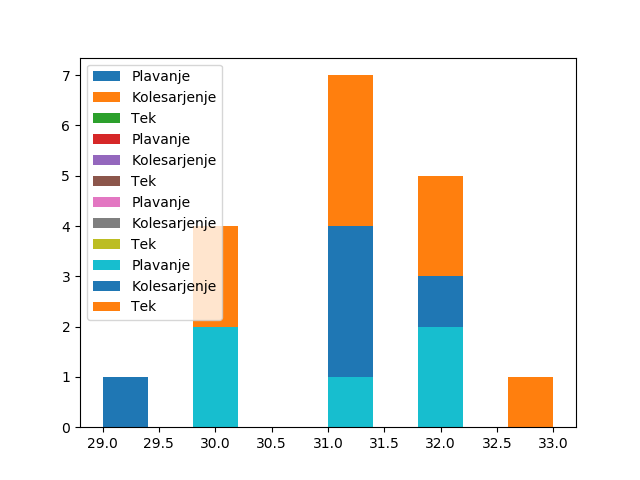
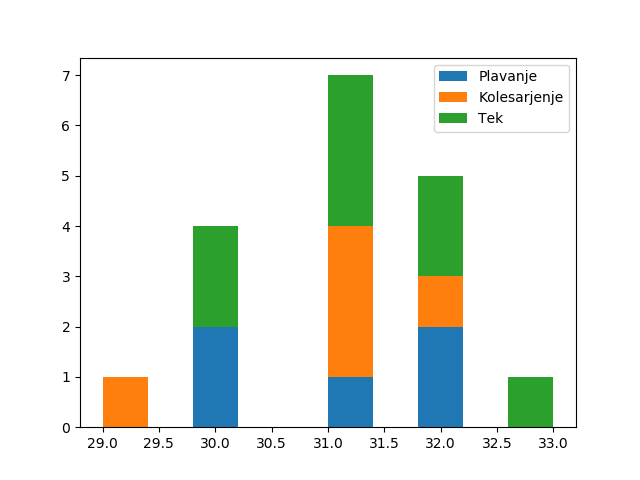
NOve spremembe, deluje iskanje po mesecih.

diff --git a/views/statistika.html b/views/statistika.html
@@ -37,7 +37,7 @@
 
     % else:
     <table border="1", align="center">
-      % for element in najdaljsi[0]:
+      % for element in najdaljsi[0][:-3]:
       <td>
         {{element}}
       </td>
@@ -55,7 +55,7 @@
 
     % else:
     <table border="1", align="center">
-    % for element in najdaljsi[1]:
+    % for element in najdaljsi[1][:-3]:
       <td>
         {{element}}
       </td>
@@ -74,7 +74,7 @@
 
     % else:
     <table border="1", align="center">
-    % for element in najdaljsi[2]:
+    % for element in najdaljsi[2][:-3]:
       <td>
         {{element}}
       </td>

diff --git a/views/zgodovina-datum.html b/views/zgodovina-datum.html
@@ -1,0 +1,25 @@
+% rebase('base.html')
+
+    Zgodovina aktivnosti:
+
+    <br>
+    
+<table border="1", align="center">
+  <tr>
+  % for element in tabela[0]:
+        <th>
+          {{element}}
+        </th>
+  % end
+  </tr>
+  % for vrstica in tabela[1:]:
+    <tr>
+      % for element in vrstica[:-3]:
+      % 
+        <td title = {{vrstica[-1]}}>
+          {{element}}
+        </td>
+      % end
+    </tr>
+  % end
+</table>

diff --git a/views/kateri_mesec.html b/views/kateri_mesec.html
@@ -1,0 +1,10 @@
+% rebase('base.html')
+
+  Za kateri mesec želiš poizvedbo?
+
+  <form action="/zgodovina-datum/" method = "POST"> 
+  <br>
+    Mesec: <input type = "number" name = 'mesec' min = "0", max = "12" required>
+  <br>
+  <button type="submit"> Opravi poizvedbo </button>
+  </form>

diff --git a/views/zgodovina.html b/views/zgodovina.html
@@ -45,6 +45,13 @@
 
 <br>
 
+<form action="/kateri-mesec/" method="GET">
+  <button type="submit"> Oglej si zgodovino aktivnosti po mesecih </button>
+</form>
+
+<br>
+
+
 <form action = "/izbris/" method="GET">
   <button type = "submit"> Izbriši aktivnost </button>
 </form>

diff --git a/views/index.html b/views/index.html
@@ -42,3 +42,9 @@
   <form action="/statistika/" method = "GET">
     <button type="submit"> Statistika aktivnosti </button>
   </form>
+
+  <br>
+
+  <form action="/zgodovina-datum/" method = "GET">
+    <button type="submit"> Zgodovina po datumih </button>
+  </form>

diff --git a/views/zgodovina_kolesarjenje.html b/views/zgodovina_kolesarjenje.html
@@ -15,7 +15,7 @@
   % for vrstica in tabela[1:]:
   % if vrstica[2] == 'Kolesarjenje':
     <tr>
-      % for element in vrstica[1:-2]:
+      % for element in vrstica[1:-3]:
         <td>
           {{element}}
         </td>

diff --git a/views/zgodovina_plavanje.html b/views/zgodovina_plavanje.html
@@ -15,7 +15,7 @@
   % for vrstica in tabela[1:]:
   %   if vrstica[2] == 'Plavanje':
     <tr>
-      % for element in vrstica[1:-2]:
+      % for element in vrstica[1:-3]:
         <td>
           {{element}}
         </td>

diff --git a/views/zgodovina_tek.html b/views/zgodovina_tek.html
@@ -15,7 +15,7 @@
   % for vrstica in tabela[1:]:
   % if vrstica[2] == 'Tek':
     <tr>
-      % for element in vrstica[1:-2]:
+      % for element in vrstica[1:-3]:
         <td>
           {{element}}
         </td>

diff --git a/views/base.html b/views/base.html
@@ -63,6 +63,7 @@
     th{
         background-color: lightgray
     }
+    
     </style>
 </head>
 

diff --git a/Vmesnik.py b/Vmesnik.py
@@ -4,24 +4,14 @@ import json
 import datetime
 import matplotlib.pyplot as plt
 
-@Bottle.route('slike/<picture>')
+@Bottle.get('/slike/<picture>')
 def server_static(picture):
-    return Bottle.static_file(picture, root='slike/')
-
-
+    return Bottle.static_file(picture, root='/slike/')
 
 @Bottle.get("/")
 def domaca_stran():
-    try: stevec
-    except NameError:
-         None
-    else: 
-        stevec = 0
-    print(stevec)
-    #Model.pita(sizes = Model.nalozi_iz_datoteke('datoteke/statistika.json'), stevec)
-    #stevec += 1
-    #Model.histogram(seznam = Model.nalozi_iz_datoteke('datoteke/aktivnosti.json'), stevec)
-    #stevec += 1
+    Model.pita(sizes = Model.nalozi_iz_datoteke('datoteke/statistika.json'))
+    Model.histogram(seznam = Model.nalozi_iz_datoteke('datoteke/aktivnosti.json'))
     return Bottle.template("index.html")
 
 @Bottle.get("/ustvari/")
@@ -144,6 +134,30 @@ def izbrisano():
         nova_tabela.append([i] + tabela[i][1:])
     Model.zapis_v_datoteko('datoteke/aktivnosti.json', nova_tabela)
     return Bottle.template("izbrisano.html")
+
+@Bottle.get('/kateri-mesec/')
+def zahtevaj_mesec():
+    return (Bottle.template("kateri_mesec.html"))
+
+@Bottle.post('/zgodovina-datum/')
+def pokazi_mesec():
+    mesec = int(Bottle.request.forms.getunicode("mesec"))
+    tabela = Model.nalozi_iz_datoteke('datoteke/aktivnosti.json')
+    zaporedne = []
+    for element in tabela[1:]:
+        print(element[1].split('-'))
+        if int((element[1].split('-'))[1]) == mesec:
+            zaporedne.append(element[0])
+    nova_tabela = [["Zaporedna številka", "Datum", "Šport", "Razdalja", "Čas", "Tempo", "Vrsta"]]
+    for i in zaporedne:
+        nova_tabela.append(tabela[i])
+    return Bottle.template('zgodovina-datum.html', tabela = nova_tabela)
+
+
+
+
+
+
 
 Bottle.run(reloader = "True", debug = "True")
 

diff --git a/Model.py b/Model.py
@@ -74,24 +74,24 @@ def nalozi_iz_datoteke(datoteka):
         zapis = json.load(dat)
     return zapis
 
-def pita(sizes, stevec):
+def pita(sizes):
     labels = ["Plavanje", "Kolesarjenje", "Tek"]
     colors = ["skyblue", "yellowgreen", "lightcoral"]
 
     if os.path.exists('slike/pita.png'):
         os.remove('slike/pita.png')
-    plt.figure(stevec)
+    plt.figure()
     plt.pie(sizes, colors = colors, labels = labels, autopct='%1.1f%%')
     plt.savefig('slike/pita.png')
+    plt.clf()
 
-def histogram(seznam, stevec):
+def histogram(seznam):
     labels = ['Plavanje', 'Kolesarjenje', 'Tek']
     colors = ['lightskyblue', 'yellowgreen', 'lightcoral']
     
     if os.path.exists('slike/hist.png'):
         os.remove('slike/hist.png')
 
-    danes = [datetime.datetime.today().isocalendar()[0], datetime.datetime.today().isocalendar()[1]]
     aktivnosti = nalozi_iz_datoteke('datoteke/aktivnosti.json')
     urejeno = [[],[],[]]
     for element in aktivnosti[1:]:
@@ -101,10 +101,11 @@ def histogram(seznam, stevec):
             urejeno[1].append(element[7])
         else:
             urejeno[2].append(element[7])
-    plt.figure(stevec)
+    plt.figure()
     plt.hist(urejeno, stacked = True, label = labels)
     plt.legend()
     plt.savefig('slike/hist.png')
+    plt.clf()
 
 
 def najdaljse(datoteka):
